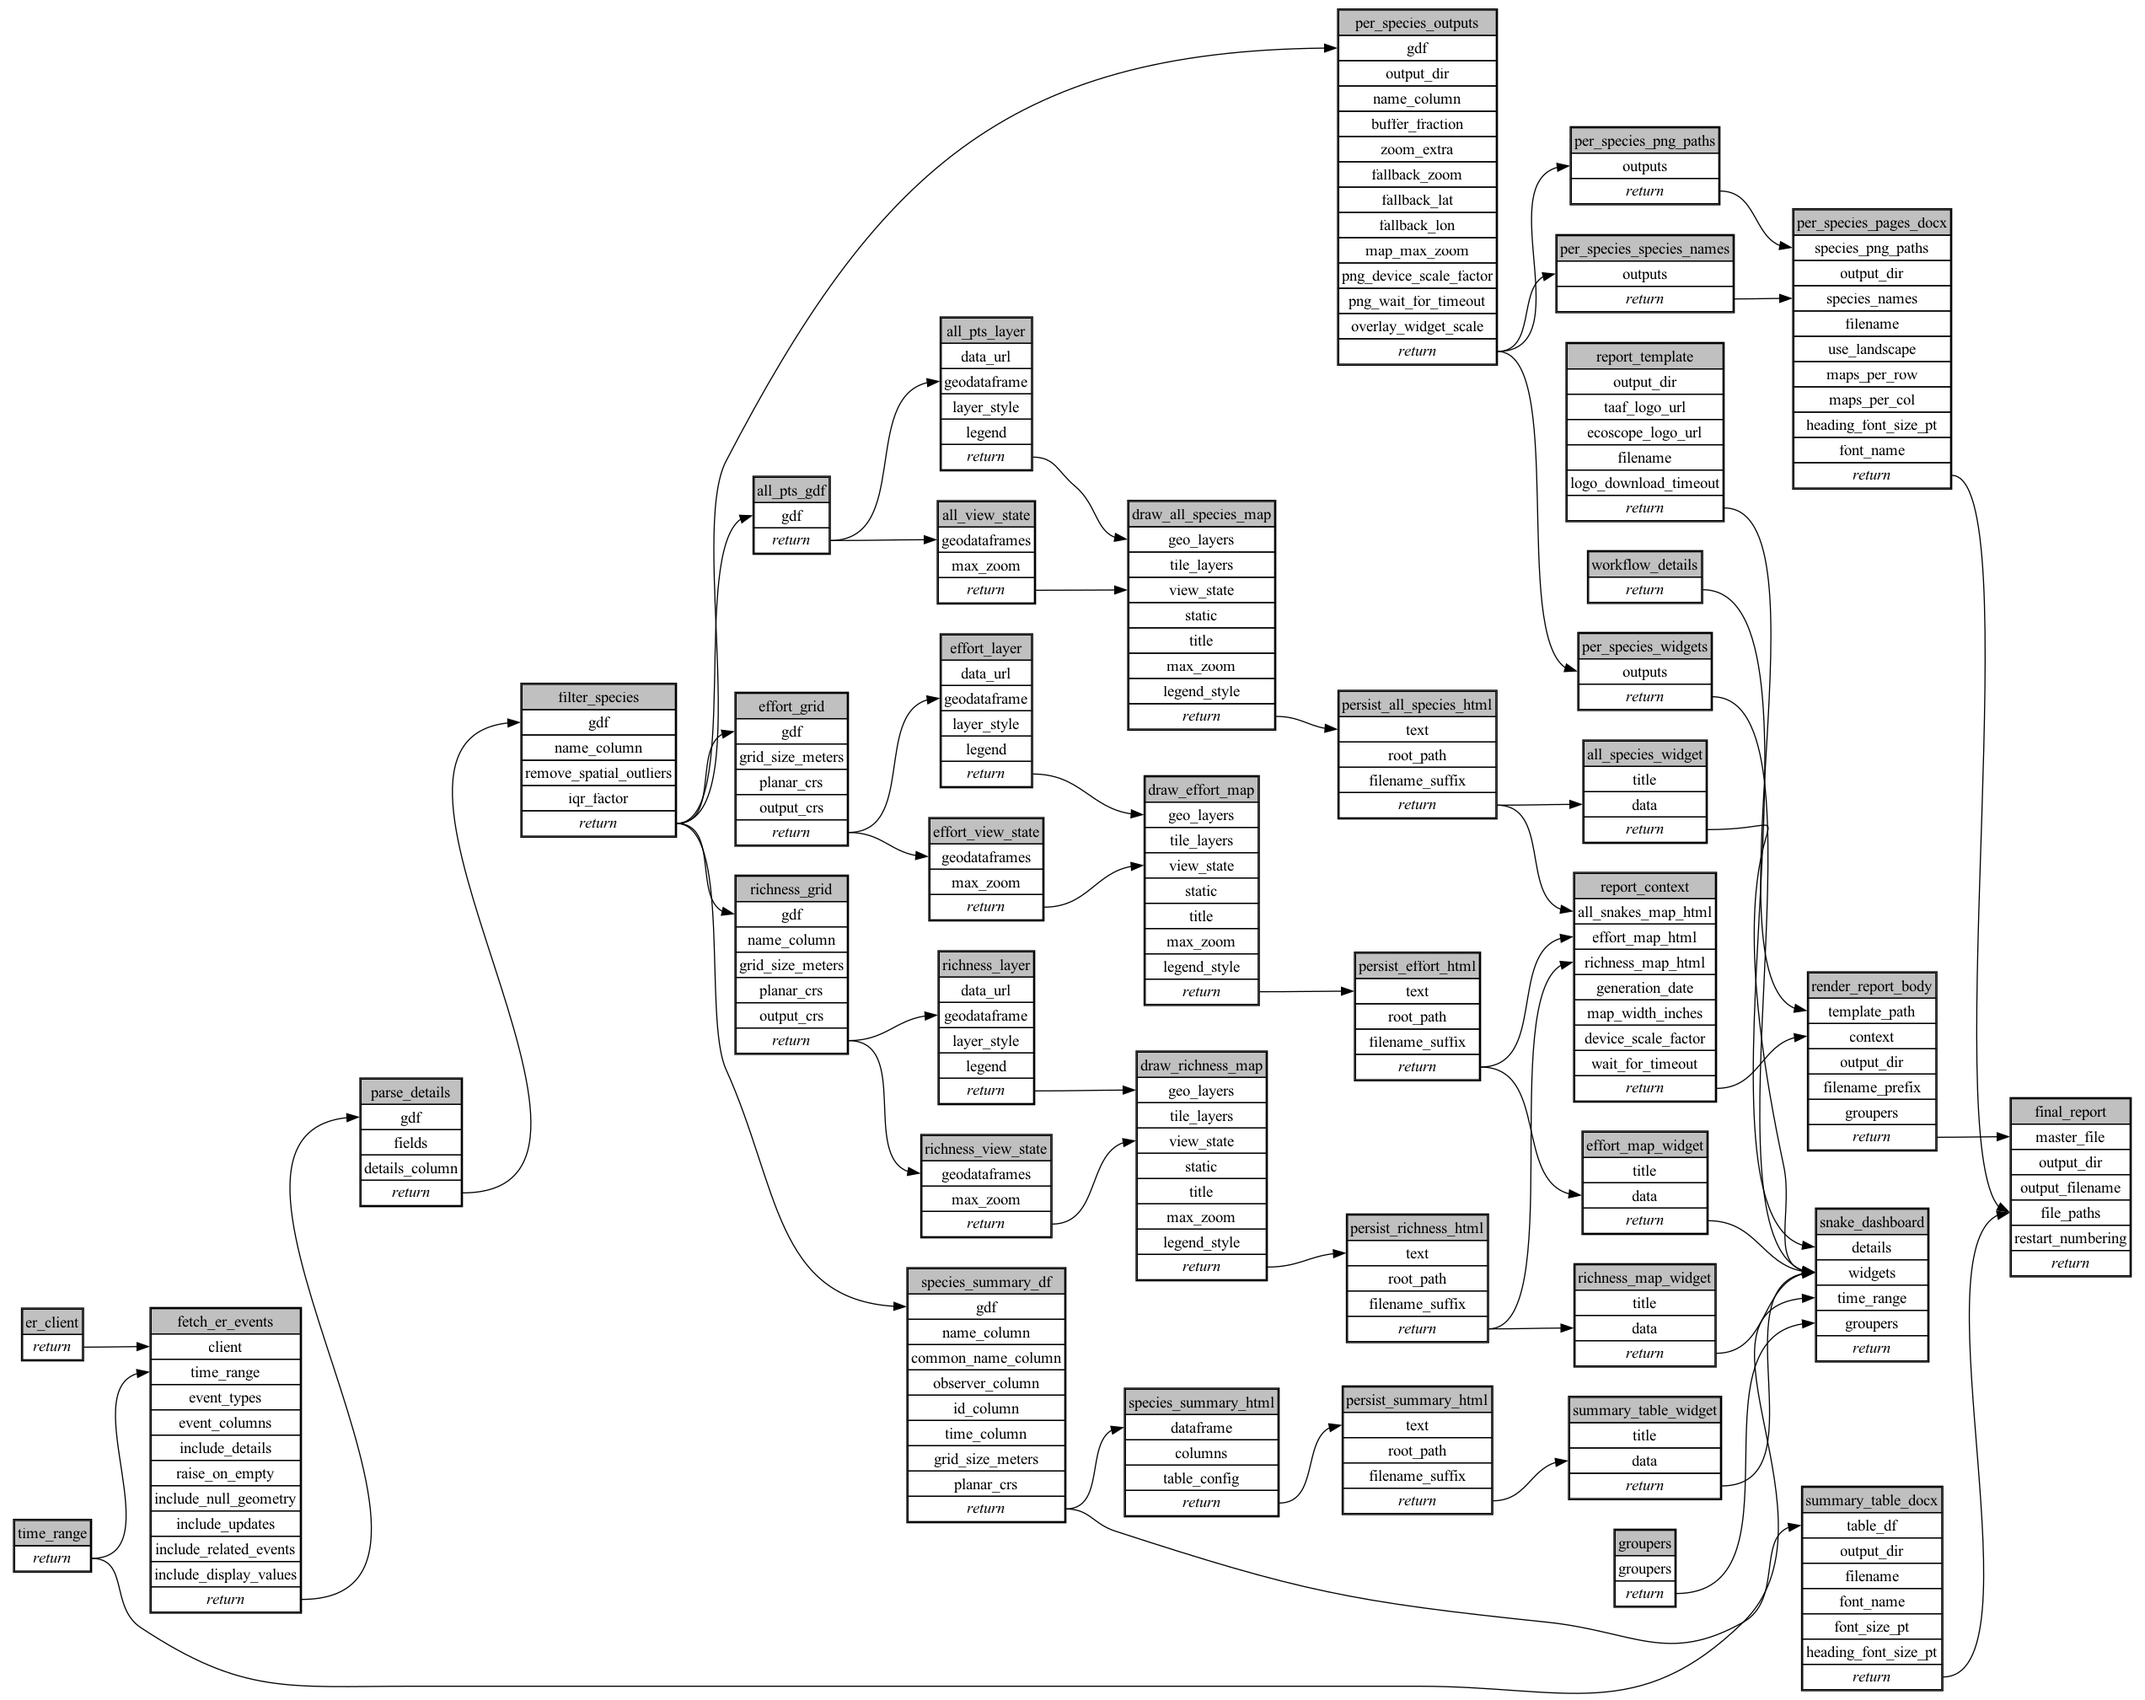
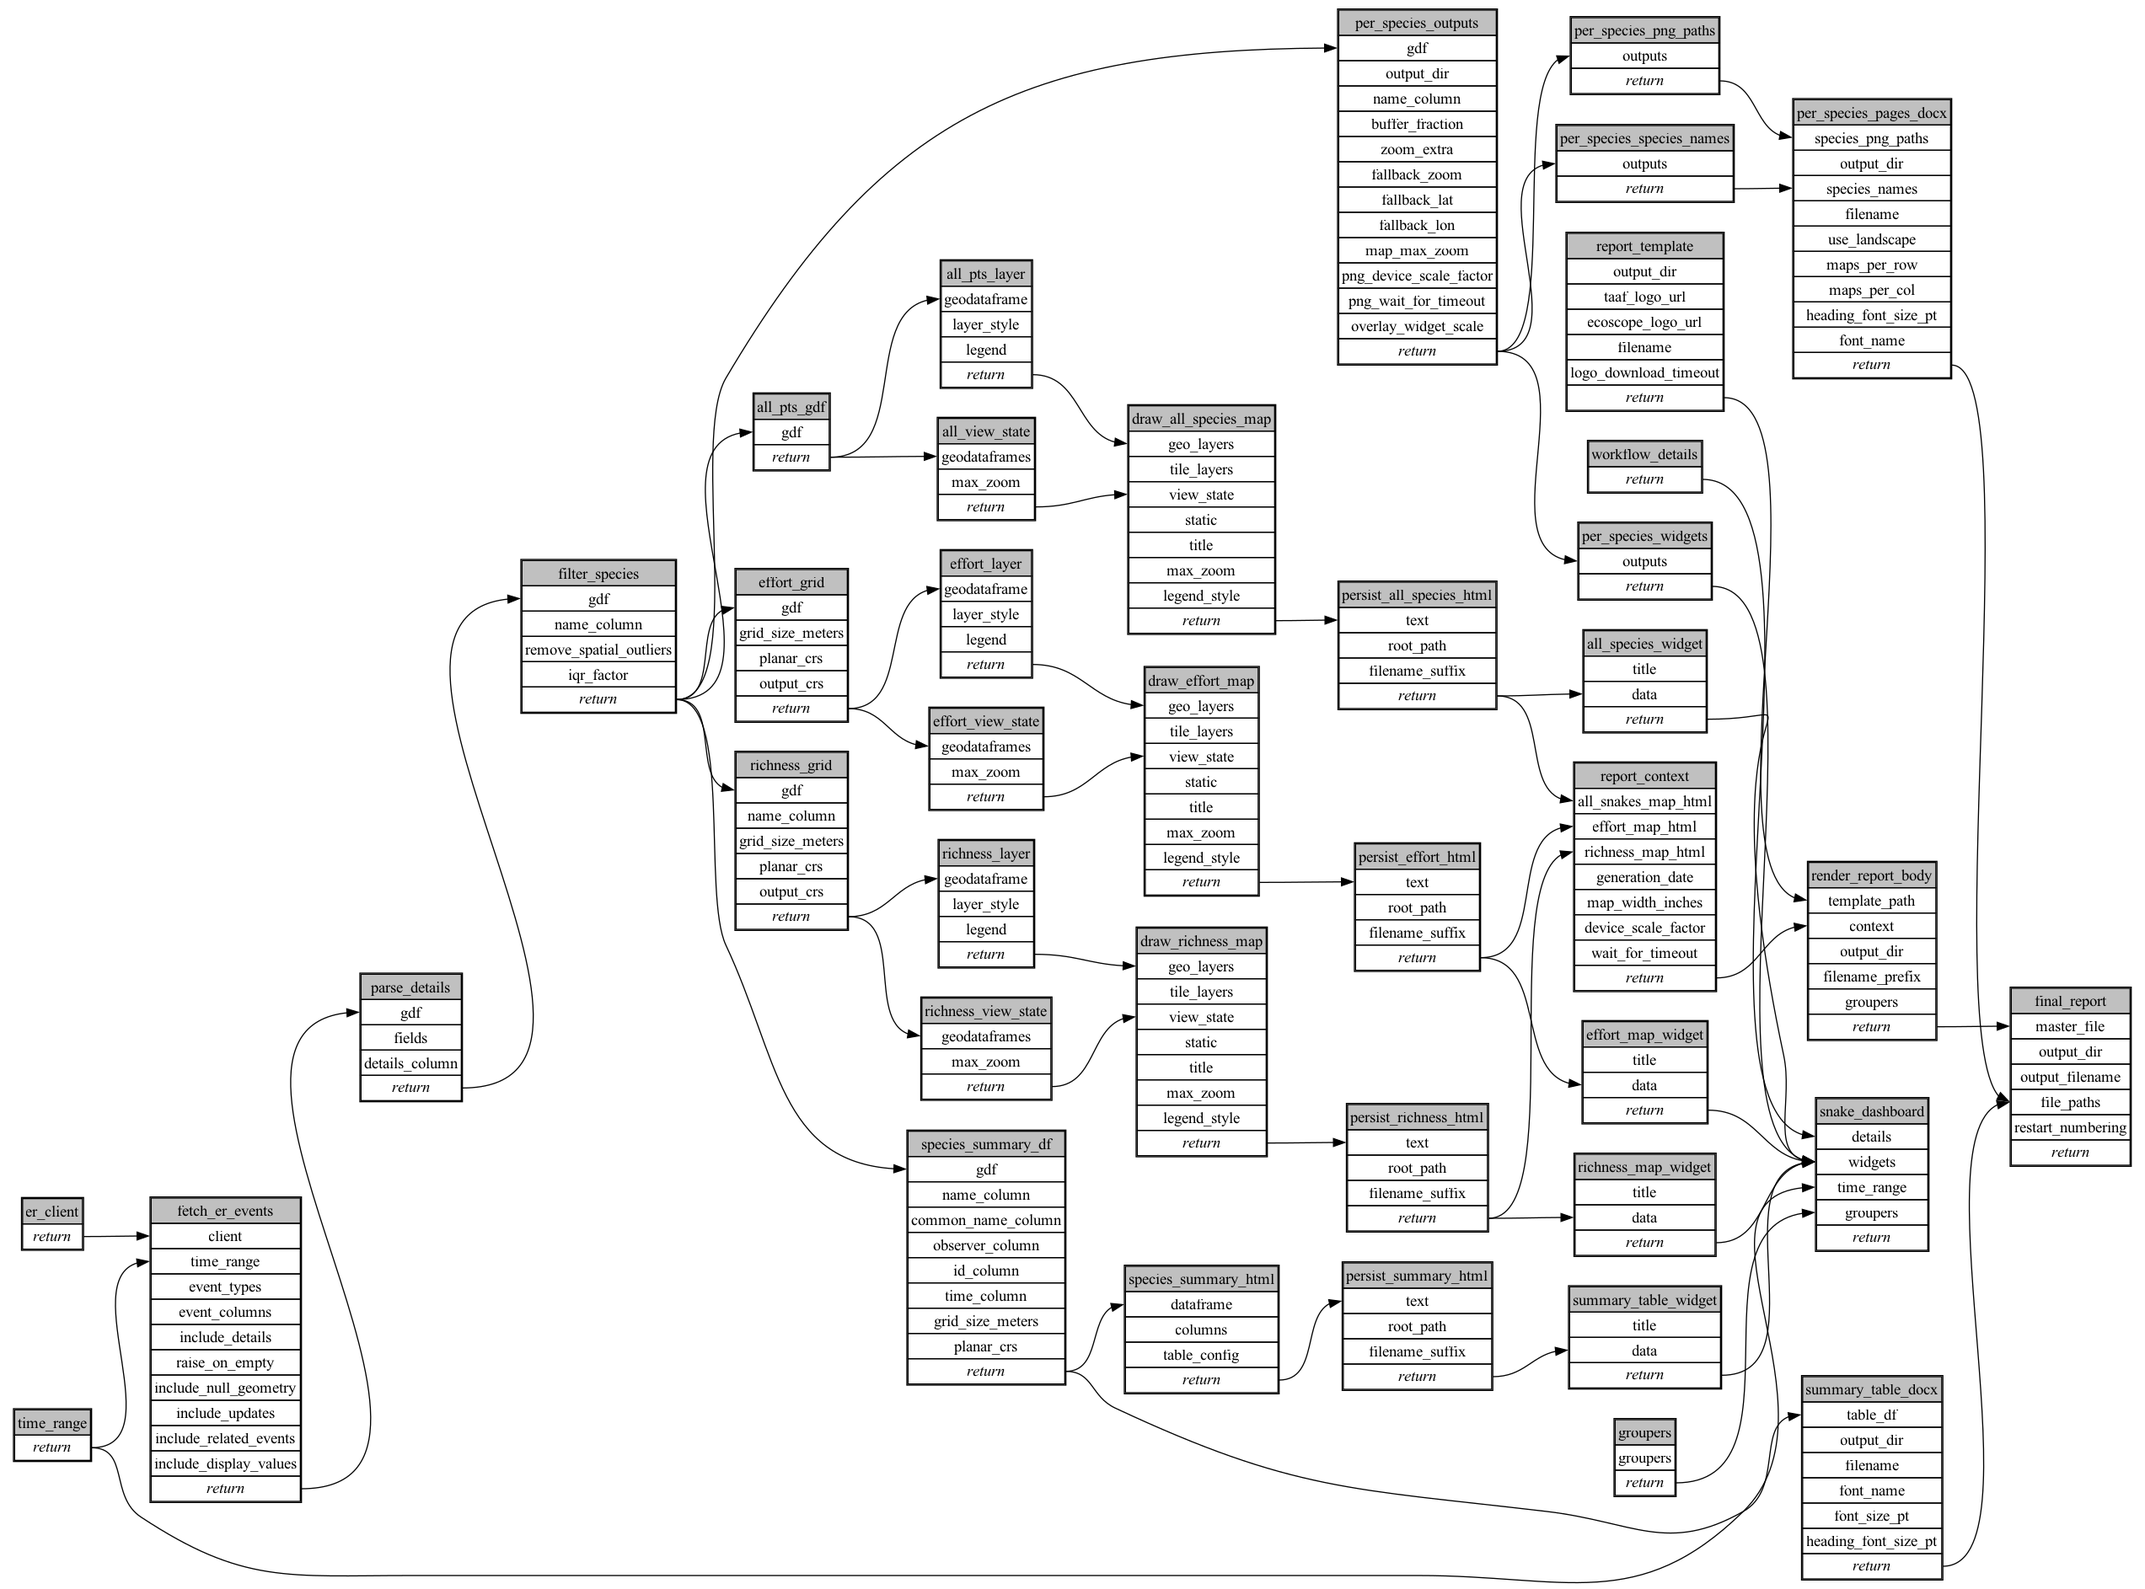
Update spec

diff --git a/ecoscope-workflows-snake-sightings-workflow/ecoscope_workflows_snake_sightings_workflow/dags/run_async.py b/ecoscope-workflows-snake-sightings-workflow/ecoscope_workflows_snake_sightings_workflow/dags/run_async.py
@@ -433,7 +433,6 @@ def main(params: Params):
             )
             .set_executor("lithops"),
             partial={
-                "data_url": None,
                 "geodataframe": DependsOn("all_pts_gdf"),
                 "layer_style": {
                     "filled": True,
@@ -577,7 +576,6 @@ def main(params: Params):
             )
             .set_executor("lithops"),
             partial={
-                "data_url": None,
                 "geodataframe": DependsOn("effort_grid"),
                 "layer_style": {
                     "filled": True,
@@ -726,7 +724,6 @@ def main(params: Params):
             )
             .set_executor("lithops"),
             partial={
-                "data_url": None,
                 "geodataframe": DependsOn("richness_grid"),
                 "layer_style": {
                     "filled": True,

diff --git a/ecoscope-workflows-snake-sightings-workflow/ecoscope_workflows_snake_sightings_workflow/dags/run_async_mock_io.py b/ecoscope-workflows-snake-sightings-workflow/ecoscope_workflows_snake_sightings_workflow/dags/run_async_mock_io.py
@@ -449,7 +449,6 @@ def main(params: Params):
             )
             .set_executor("lithops"),
             partial={
-                "data_url": None,
                 "geodataframe": DependsOn("all_pts_gdf"),
                 "layer_style": {
                     "filled": True,
@@ -593,7 +592,6 @@ def main(params: Params):
             )
             .set_executor("lithops"),
             partial={
-                "data_url": None,
                 "geodataframe": DependsOn("effort_grid"),
                 "layer_style": {
                     "filled": True,
@@ -742,7 +740,6 @@ def main(params: Params):
             )
             .set_executor("lithops"),
             partial={
-                "data_url": None,
                 "geodataframe": DependsOn("richness_grid"),
                 "layer_style": {
                     "filled": True,

diff --git a/ecoscope-workflows-snake-sightings-workflow/ecoscope_workflows_snake_sightings_workflow/dags/run_sequential.py b/ecoscope-workflows-snake-sightings-workflow/ecoscope_workflows_snake_sightings_workflow/dags/run_sequential.py
@@ -357,7 +357,6 @@ def main(params: Params):
             unpack_depth=1,
         )
         .partial(
-            data_url=None,
             geodataframe=all_pts_gdf,
             layer_style={
                 "filled": True,
@@ -489,7 +488,6 @@ def main(params: Params):
             unpack_depth=1,
         )
         .partial(
-            data_url=None,
             geodataframe=effort_grid,
             layer_style={
                 "filled": True,
@@ -621,7 +619,6 @@ def main(params: Params):
             unpack_depth=1,
         )
         .partial(
-            data_url=None,
             geodataframe=richness_grid,
             layer_style={
                 "filled": True,

diff --git a/ecoscope-workflows-snake-sightings-workflow/ecoscope_workflows_snake_sightings_workflow/dags/run_sequential_mock_io.py b/ecoscope-workflows-snake-sightings-workflow/ecoscope_workflows_snake_sightings_workflow/dags/run_sequential_mock_io.py
@@ -373,7 +373,6 @@ def main(params: Params):
             unpack_depth=1,
         )
         .partial(
-            data_url=None,
             geodataframe=all_pts_gdf,
             layer_style={
                 "filled": True,
@@ -505,7 +504,6 @@ def main(params: Params):
             unpack_depth=1,
         )
         .partial(
-            data_url=None,
             geodataframe=effort_grid,
             layer_style={
                 "filled": True,
@@ -637,7 +635,6 @@ def main(params: Params):
             unpack_depth=1,
         )
         .partial(
-            data_url=None,
             geodataframe=richness_grid,
             layer_style={
                 "filled": True,

diff --git a/ecoscope-workflows-snake-sightings-workflow/ecoscope_workflows_snake_sightings_workflow/dags/jupytext.py b/ecoscope-workflows-snake-sightings-workflow/ecoscope_workflows_snake_sightings_workflow/dags/jupytext.py
@@ -545,7 +545,6 @@ all_pts_layer = (
         unpack_depth=1,
     )
     .partial(
-        data_url=None,
         geodataframe=all_pts_gdf,
         layer_style={
             "filled": True,
@@ -751,7 +750,6 @@ effort_layer = (
         unpack_depth=1,
     )
     .partial(
-        data_url=None,
         geodataframe=effort_grid,
         layer_style={
             "filled": True,
@@ -957,7 +955,6 @@ richness_layer = (
         unpack_depth=1,
     )
     .partial(
-        data_url=None,
         geodataframe=richness_grid,
         layer_style={
             "filled": True,

diff --git a/ecoscope-workflows-snake-sightings-workflow/README.md b/ecoscope-workflows-snake-sightings-workflow/README.md
@@ -5,8 +5,8 @@
 
 ```yaml
 # fingerprint:
-artifacts_sha256_basic: 5de6549ac5c791264fd232379cb96e065130fcfb4dec6b927611b65e468bd2f5
-artifacts_sha256_strict: 88a7628621ce60cbf4e29b2c01d9c221e363858a0f64d0d7f112d48b05a2aa2c
+artifacts_sha256_basic: 5e5827b1a1cd8a980e9395b116266ce27e724979d85f123b68f27bc03a378292
+artifacts_sha256_strict: 2c77b12377cab4691f7b33e31c9a919b279f268bf9722bb6516685bd16558907
 installed_requirements:
 - channel: https://repo.prefix.dev/ecoscope-workflows/
   name: ecoscope-workflows-core
@@ -42,7 +42,7 @@ installed_requirements:
   name: shapely
   version: {version: ==2.1.2}
 params_sha256: 10ce3d00be226ae2e386c0ffe23124f187f536901594b72d9b50231a6605a33a
-spec_sha256: 872df9343ca1c76f8b43c294a427517c70ce61f383d2a9b2becf708031e1515a
+spec_sha256: c569a451205562c521396320e527e8149e1b7cbb94ad7a2ae391764def7a7b16
 
 ```
 
